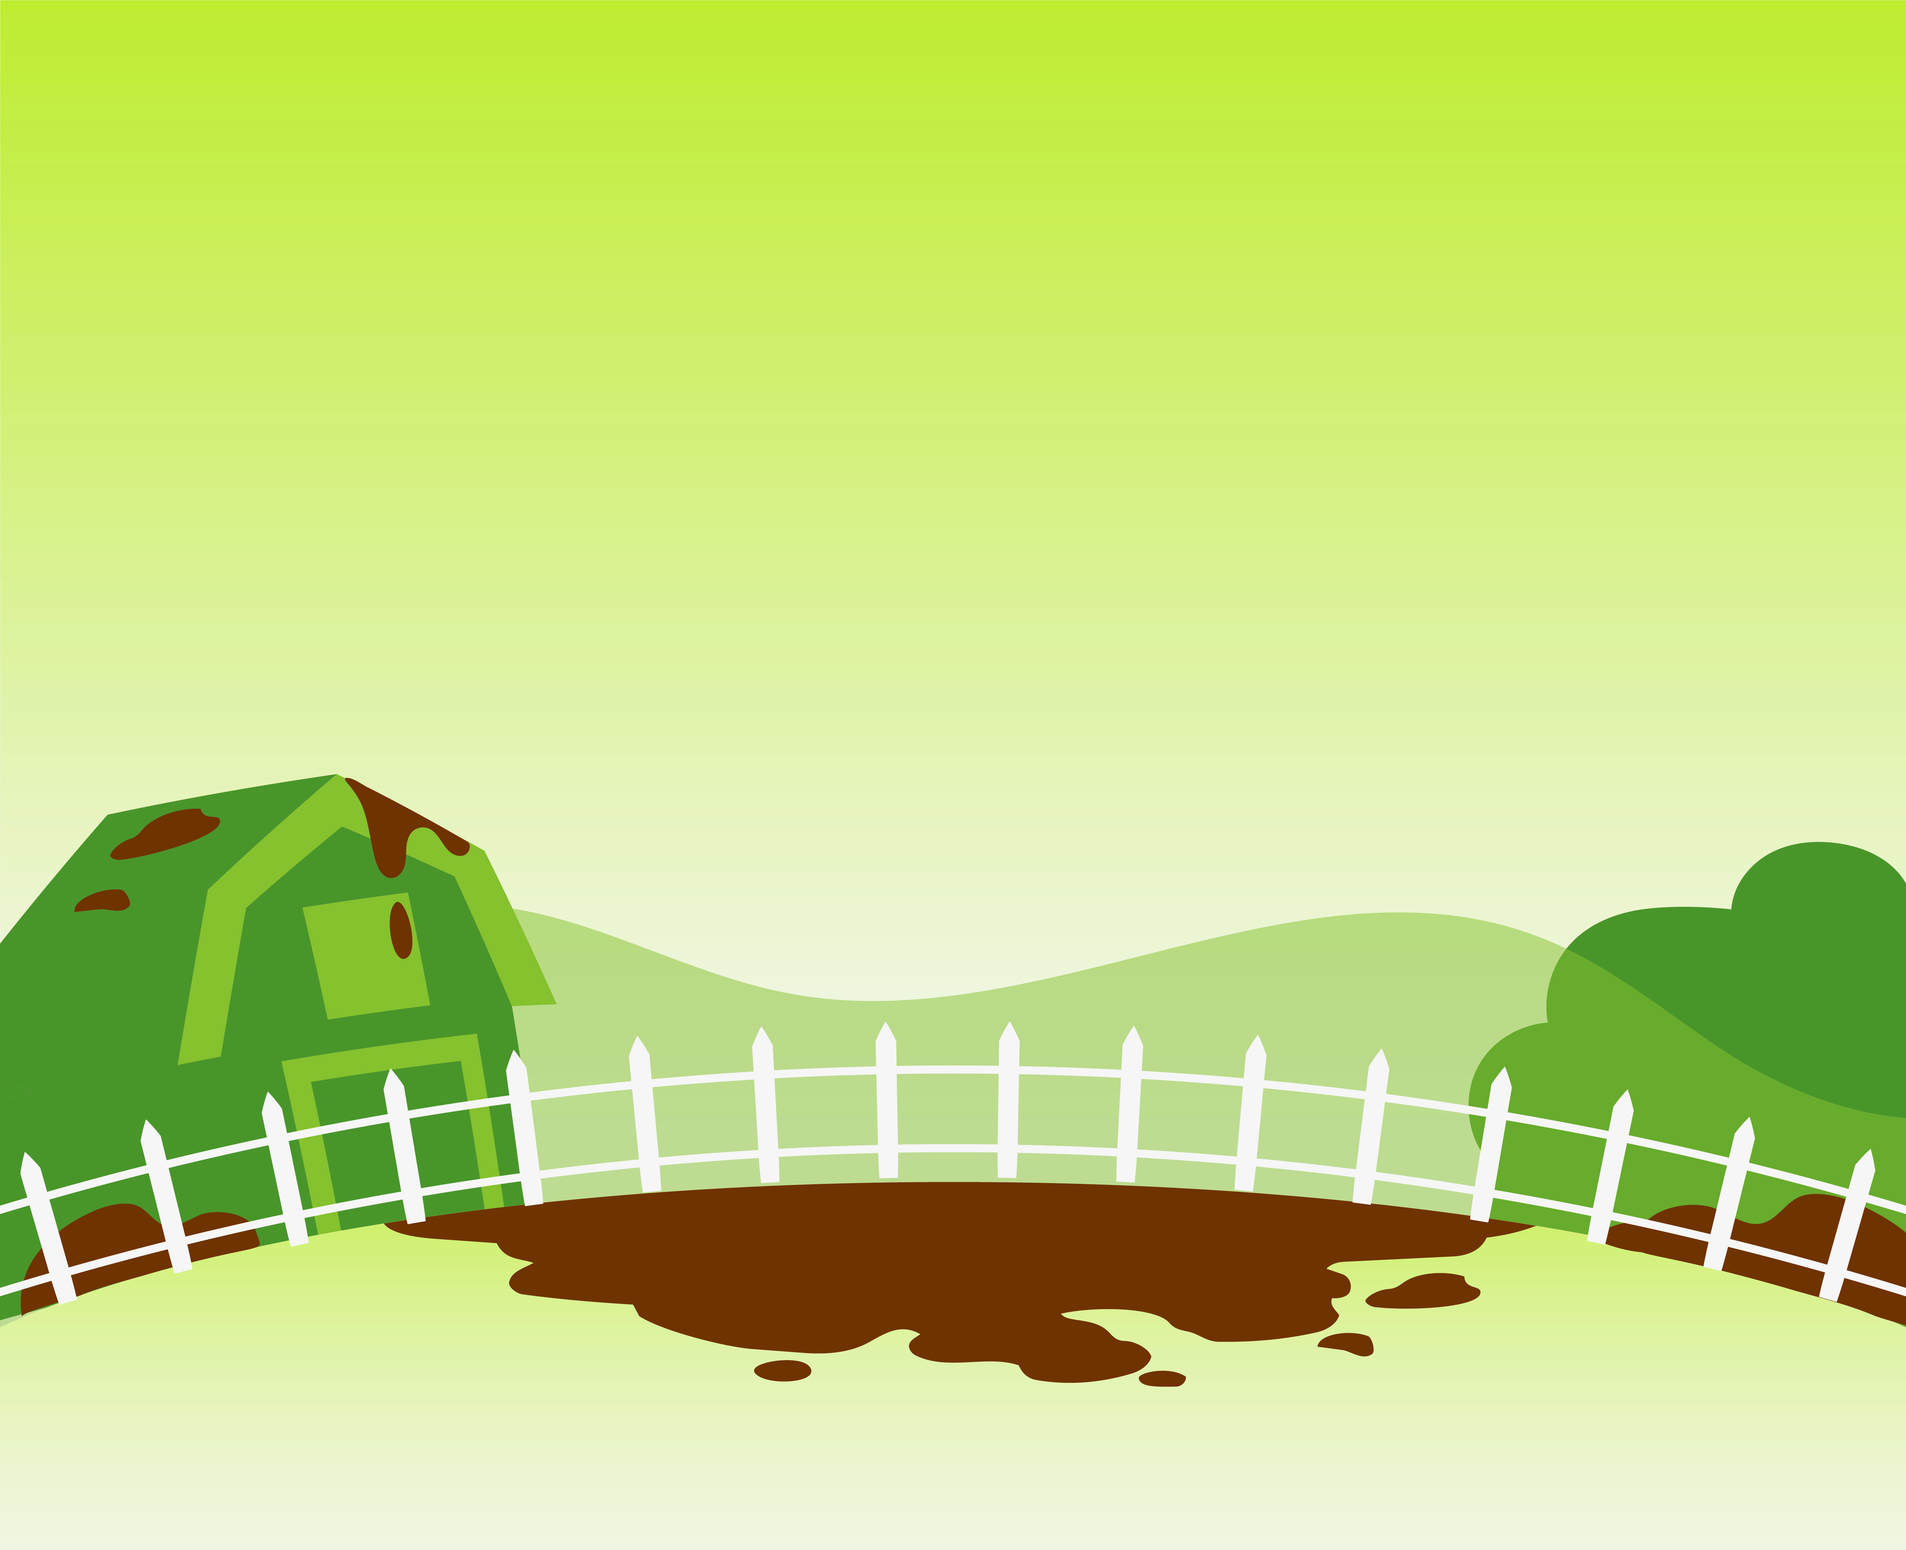
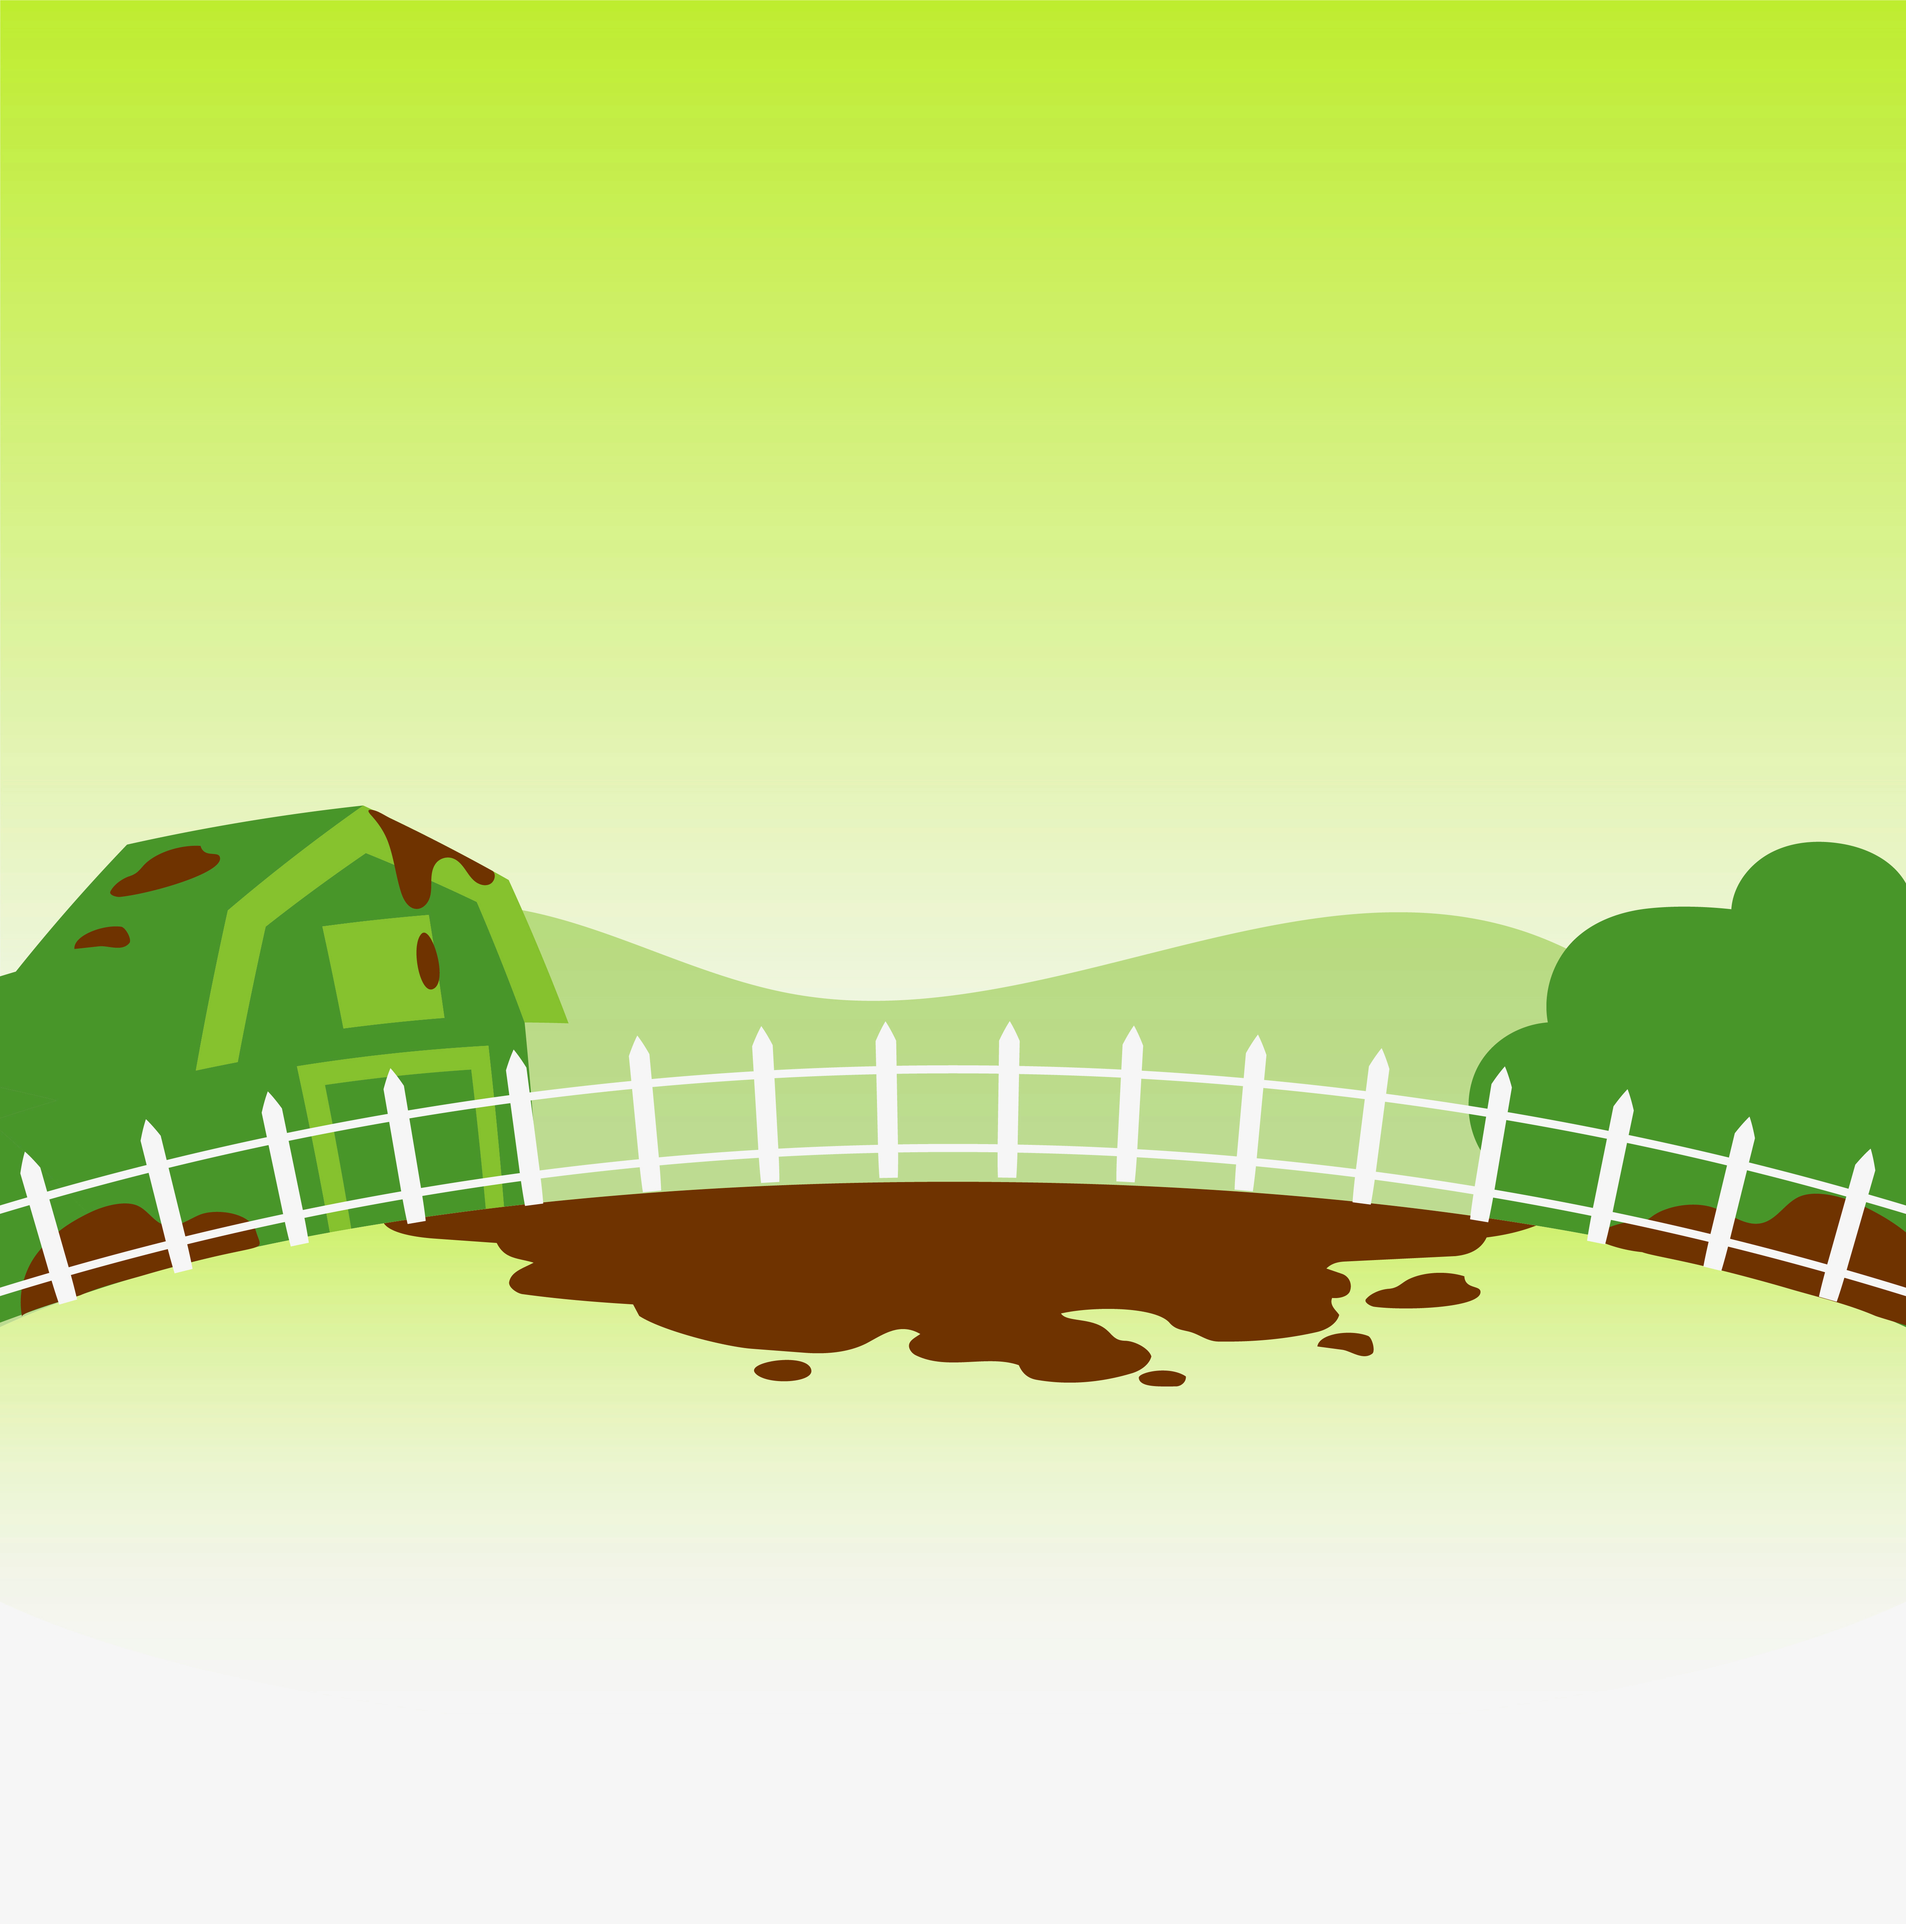
farm background now spans whole screen

diff --git a/mobile/Spent/app/(tabs)/home.tsx b/mobile/Spent/app/(tabs)/home.tsx
@@ -93,6 +93,7 @@ export default function HomeScreen() {
   const { token: contextToken, checkInResults, predictions, mergePredictions, predictionsLoaded, pendingLocations, monthlyBudget } = useAuth();
   const token = contextToken ?? paramToken;
   const [trackingActive, setTrackingActive] = useState(false);
+  const [farmAspectRatio, setFarmAspectRatio] = useState(1);
 
   useEffect(() => {
     if (Platform.OS === 'web') return;
@@ -117,20 +118,19 @@ export default function HomeScreen() {
     return totals;
   }, [checkInResults]);
 
-  // Pick farm background based on actual spend vs monthly budget
-  const farmImage = useMemo(() => {
+  // Pick farm background + spending score based on actual spend vs monthly budget
+  const { farmImage, spendingScore } = useMemo(() => {
     const totalSpent  = Object.values(categoryTotals).reduce((s, v) => s + v, 0);
     const totalBudget = Object.values(monthlyBudget).reduce((s, v) => s + v, 0);
 
-    // No data yet — show the middle image
-    if (totalBudget === 0 || totalSpent === 0) return FARM_IMAGES[2];
+    if (totalBudget === 0 || totalSpent === 0) return { farmImage: FARM_IMAGES[2], spendingScore: 3 };
 
     const ratio = totalSpent / totalBudget;
-    if (ratio > 1.2) return FARM_IMAGES[0]; // really over → image 1
-    if (ratio > 1.0) return FARM_IMAGES[1]; // somewhat over → image 2
-    if (ratio > 0.8) return FARM_IMAGES[2]; // at threshold → image 3
-    if (ratio > 0.5) return FARM_IMAGES[3]; // somewhat under → image 4
-    return FARM_IMAGES[4];                  // significantly under → image 5
+    if (ratio > 1.2) return { farmImage: FARM_IMAGES[0], spendingScore: 1 };
+    if (ratio > 1.0) return { farmImage: FARM_IMAGES[1], spendingScore: 2 };
+    if (ratio > 0.8) return { farmImage: FARM_IMAGES[2], spendingScore: 3 };
+    if (ratio > 0.5) return { farmImage: FARM_IMAGES[3], spendingScore: 4 };
+    return { farmImage: FARM_IMAGES[4], spendingScore: 5 };
   }, [categoryTotals, monthlyBudget]);
 
   // Sum medium predicted spend per day
@@ -307,8 +307,20 @@ export default function HomeScreen() {
   }, [token, dayOffset, predictionsLoaded]);
 
   return (
+    <View style={styles.screen}>
+      {/* ── Farm background — full-width, natural height, pinned to top ── */}
+      <Image
+        source={farmImage}
+        style={{ position: 'absolute', top: 0, left: 0, right: 0, aspectRatio: farmAspectRatio }}
+        contentFit="fill"
+        onLoad={e => {
+          const { width, height } = e.source;
+          if (width && height) setFarmAspectRatio(width / height);
+        }}
+      />
+
     <ScrollView
-      style={styles.container}
+      style={styles.scrollView}
       contentContainerStyle={[styles.content, { paddingTop: top + 20 }]}
       showsVerticalScrollIndicator={false}
     >
@@ -353,14 +365,20 @@ export default function HomeScreen() {
         </GestureDetector>
       </View>
 
-      {/* ── Hero card ── */}
-      <View style={styles.heroCard}>
-        {/* Farm fills the entire card */}
-        <Image source={farmImage} style={StyleSheet.absoluteFillObject} contentFit="cover" />
+      {/* ── Farm transparent section — shows farm bg, overlays controls ── */}
+      <View style={styles.farmSection}>
+        {/* 5-step progress bar — bottom left, over pig sty */}
+        <View style={styles.progressBarRow}>
+          {[1, 2, 3, 4, 5].map(step => (
+            <View
+              key={step}
+              style={[styles.progressSegment, step <= spendingScore && styles.progressSegmentFilled]}
+            />
+          ))}
+        </View>
 
-        {/* Content row */}
-        <View style={styles.heroContent}>
-          {/* Check-in button + streak badge */}
+        {/* Check-in + streak — bottom right */}
+        <View style={styles.farmOverlayRight}>
           <View style={styles.checkInWrapper}>
             <TouchableOpacity
               style={styles.checkInButton}
@@ -369,7 +387,6 @@ export default function HomeScreen() {
               <Image source={clipboardIcon} style={styles.clipboardImg} contentFit="contain" />
               <Text style={styles.checkInLabel}>check in</Text>
             </TouchableOpacity>
-
             <View style={styles.streakBadge}>
               <Image source={flameIcon} style={styles.flameImg} contentFit="contain" />
               <Text style={styles.streakCount}>{streak}</Text>
@@ -475,6 +492,7 @@ export default function HomeScreen() {
         onClose={() => setCheckInVisible(false)}
       />
     </ScrollView>
+    </View>
   );
 }
 
@@ -489,9 +507,13 @@ const GRAY_TEXT   = '#a5a5a5';
 const BLACK       = '#1e1d19';
 
 const styles = StyleSheet.create({
-  container: {
+  screen: {
     flex: 1,
     backgroundColor: '#fff',
+  },
+  scrollView: {
+    flex: 1,
+    backgroundColor: 'transparent',
   },
   content: {
     padding: 20,
@@ -562,21 +584,35 @@ const styles = StyleSheet.create({
     color: '#000',
   },
 
-  // ── Hero card ───────────────────────────────────────────────────────────────
-  heroCard: {
-    borderRadius: 20,
-    overflow: 'hidden',
-    backgroundColor: MINT,
+  // ── Farm section (transparent — farm bg shows through) ──────────────────────
+  farmSection: {
     height: 220,
-  },
-  heroContent: {
     flexDirection: 'row',
-    justifyContent: 'space-between',
     alignItems: 'flex-end',
-    paddingTop: 50,
-    paddingHorizontal: 20,
-    paddingBottom: 20,
-    flex: 1,
+    justifyContent: 'space-between',
+    paddingBottom: 16,
+    paddingHorizontal: 16,
+  },
+  farmOverlayRight: {
+    alignItems: 'center',
+    gap: 4,
+  },
+  progressBarRow: {
+    flexDirection: 'row',
+    gap: 5,
+    alignItems: 'center',
+  },
+  progressSegment: {
+    width: 22,
+    height: 8,
+    borderRadius: 4,
+    backgroundColor: 'rgba(255, 255, 255, 0.35)',
+    borderWidth: 1,
+    borderColor: 'rgba(255,255,255,0.6)',
+  },
+  progressSegmentFilled: {
+    backgroundColor: LIME_GREEN,
+    borderColor: LIME_GREEN,
   },
   checkInWrapper: {
     alignItems: 'center',
